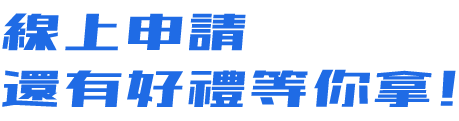
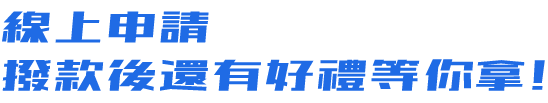
update images & alt of images

diff --git a/index.html b/index.html
@@ -129,7 +129,7 @@
 										src="./assets/img/pageItem/kv/kv-title.png" alt="台新車貸 加速圓夢不等待">
 									<a class="" href="" target="_blank">
 										<img class="key-visual-title" src="./assets/img/pageItem/kv/kv-btn.png"
-											alt="車貸線上辦 限時好禮等著你!">
+											alt="車貸線上辦 撥款後限時好禮等著你!">
 									</a>
 								</div>
 							</div>
@@ -162,7 +162,7 @@
 					<section id="sign-sec"
 						class="col-12 pt-3 pt-md-4 mx-auto d-flex position-relative flex-wrap align-items-center justify-content-center sign-sec">
 						<div class="col-11 col-lg-6 pr-2  pr-lg-4 text-left">
-							<img class="position-relative" src="./assets/img/pageItem/A-HL.png" alt="線上申請 還有好禮等你拿">
+							<img class="position-relative" src="./assets/img/pageItem/A-HL.png" alt="線上申請 撥款後還有好禮等你拿">
 							<p class="text-left">活動時間 ｜ 2023/4/10~2023/6/30<br>
 								於活動期間內線上申請汽車貸款且於7/7(含)前成功撥款，即可獲得台新Point抽獎機會一次。
 							</p>
